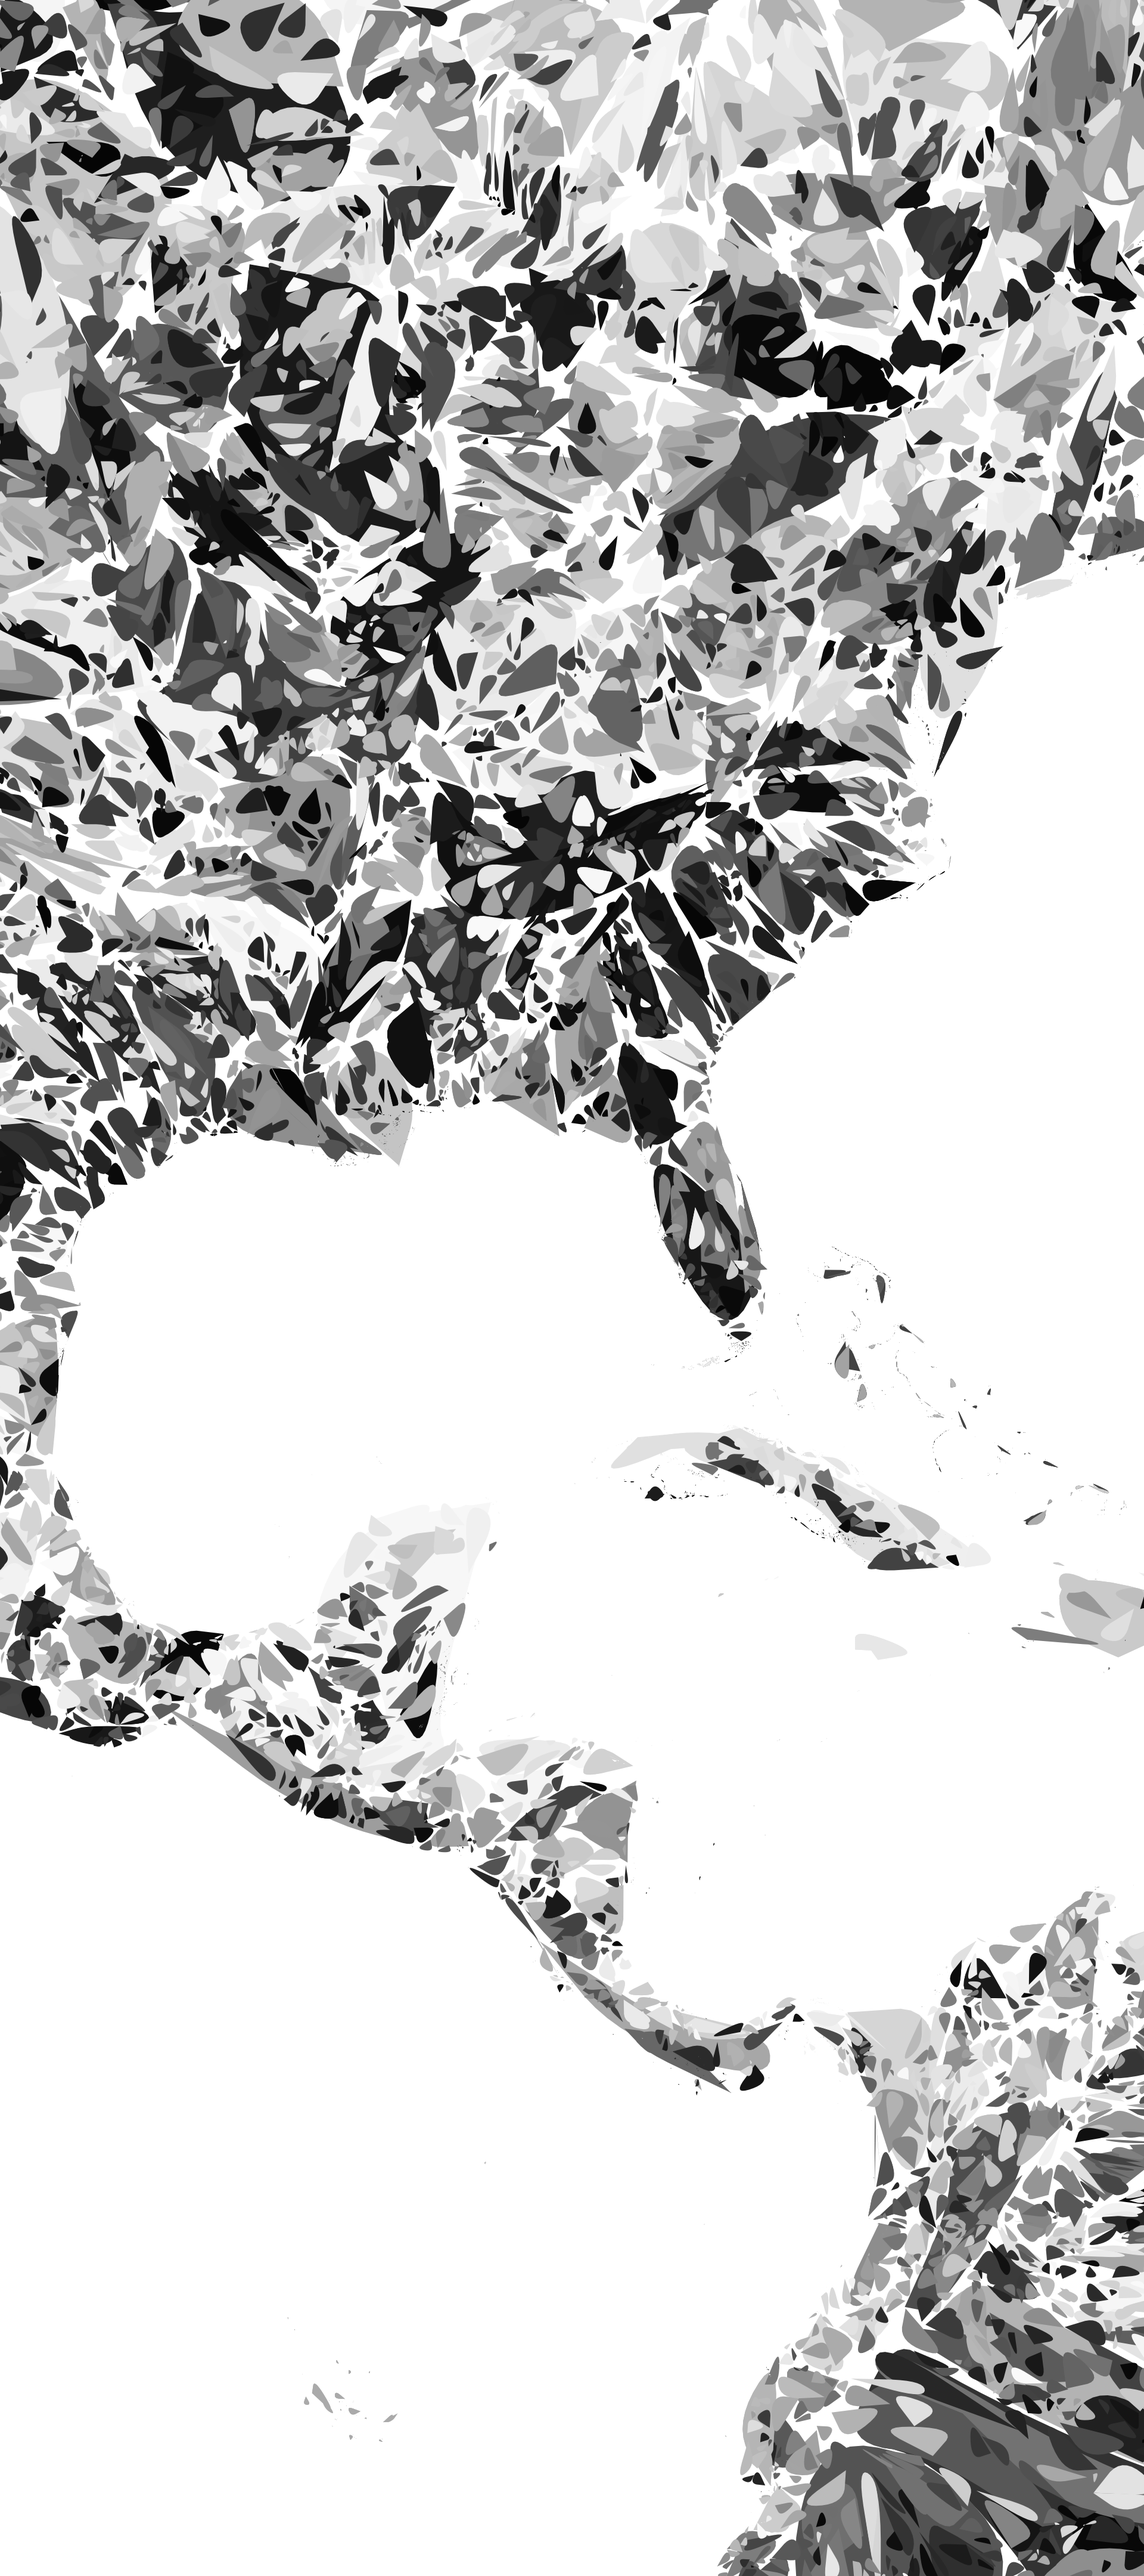
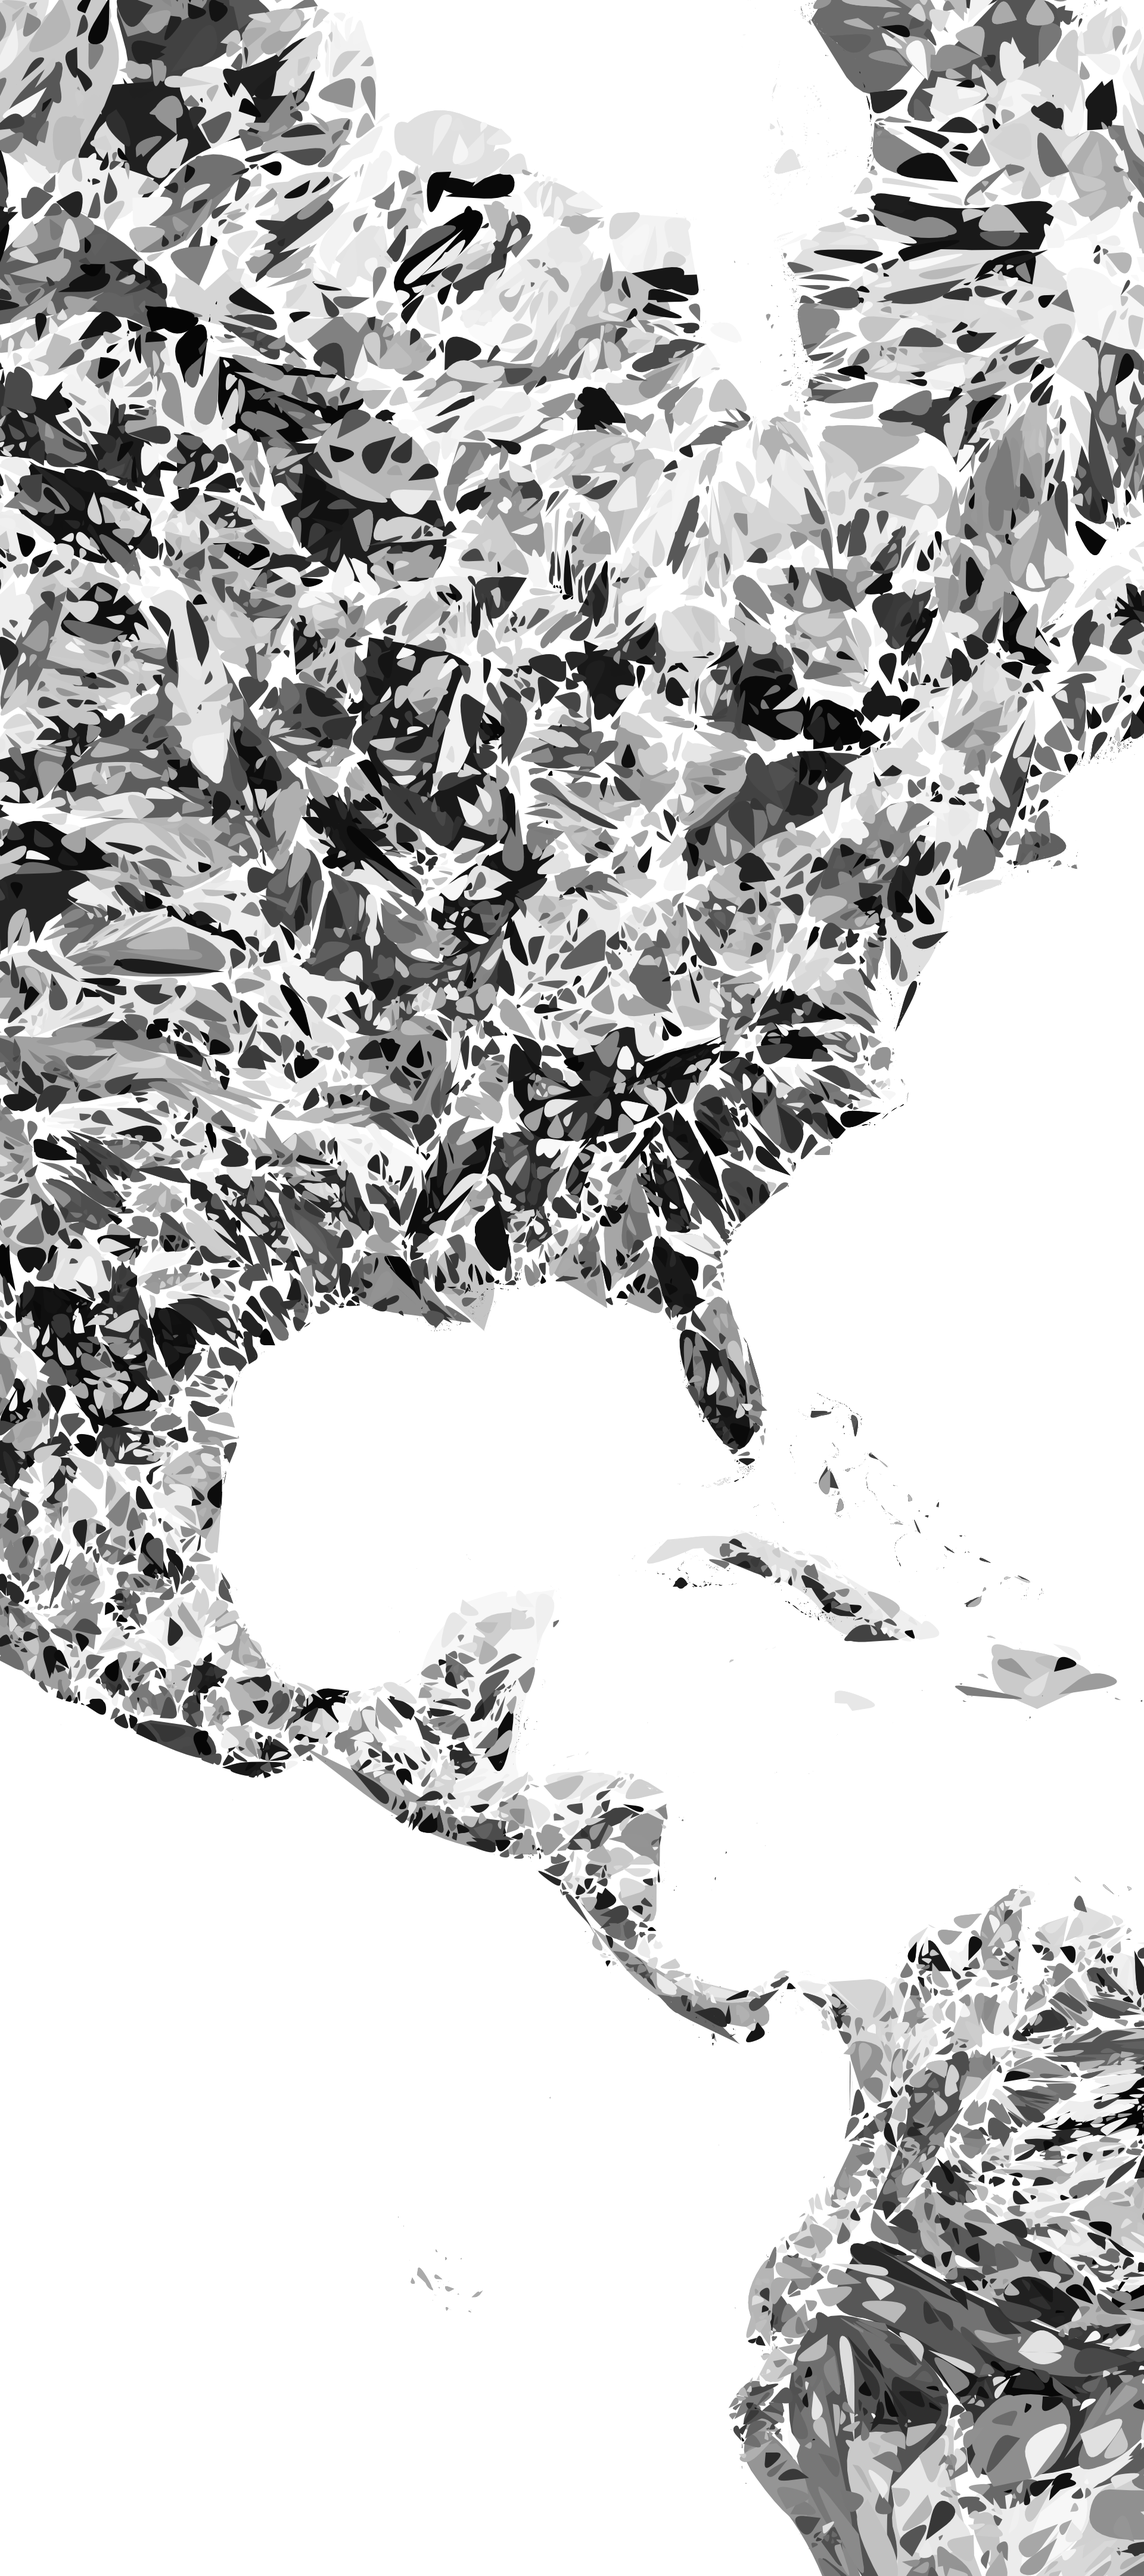
update

diff --git a/index.html b/index.html
@@ -33,11 +33,11 @@
   <div class="caption"><h3></h3></div>
 </div>
 <div class="container">
-  <img style="background-color:#f0f0e8" src="img/topographic_smooth_northamerica_rotate90.png">
+  <img style="background-color:#f0f0e8" src="img/topographic_smooth_northamerica.png">
   <div class="caption"><h3></h3></div>
 </div>
 <div class="container">
-  <img style="background-color:#f0f0e8" src="img/topographic_smooth_europe_rotate90.png">
+  <img style="background-color:#f0f0e8" src="img/topographic_smooth_europe.png">
   <div class="caption"><h3></h3></div>
 </div>
 <div class="container">
